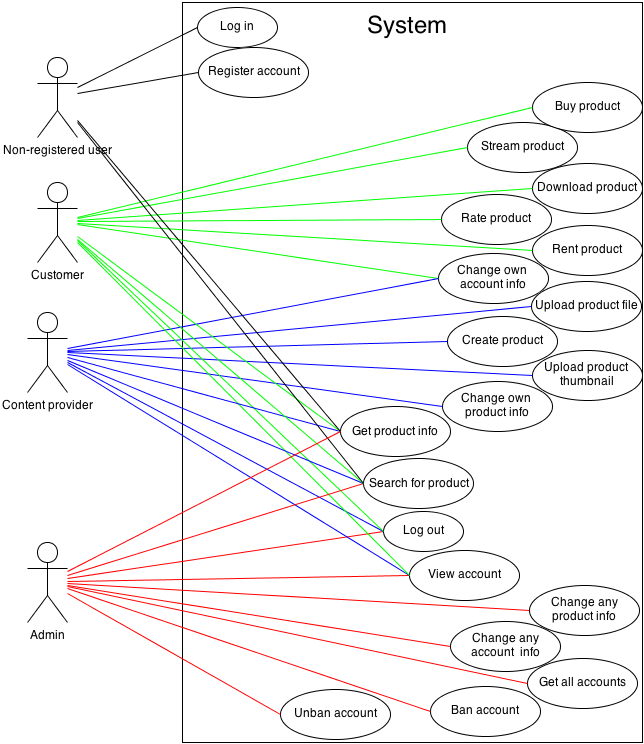
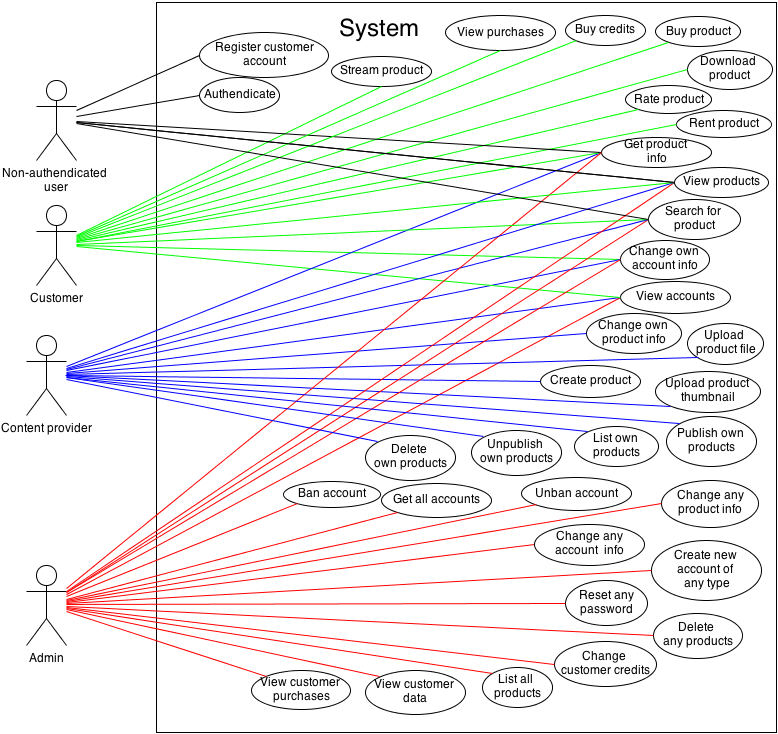
Added more requirements

Changed region(s): [[0.0, 0.0, 1.0, 1.0], [0.1863, 0.9891, 0.2795, 1.0], [0.7453, 0.9891, 0.7764, 1.0]]

diff --git a/texts/Server/Planning/Requirements.tex b/texts/Server/Planning/Requirements.tex
@@ -12,22 +12,51 @@ This section will focus on the requirements for the server. The following list, 
 
 From the use case diagram and the use cases we have produced a list of functional requirements to the web service.
 
-\begin{enumerate}[label=FR-\arabic*]
-	\item Register new account
-	\item Authenticate
-	\item Customers can buy products
-	\item Customers can rent products
-	\item Customers can rate products
-	\item Customers can stream products
-	\item Customers can download products
-	\item Customers and content providers can change their own account information
-	\item Content providers can upload product files
-	\item Content providers can create new products
-	\item Content providers can upload product thumbnails
-	\item Content providers can change informations about their own products
-	\item Admins can change information about any product
-	\item Admins can change information about any account
-	\item Admins can get a list of all accounts
-	\item Admins can ban an account
-	\item Admins can unban an account
-\end{enumerate}
+\newcounter{FR_Counter}
+
+
+\begin{table}
+\centering
+\caption{Functional requirements}
+\begin{tabular}{|c|p{7cm}|c|c|c|c|}
+\hline
+ID & Description & NS & C & CP & A \\ \hline
+\refstepcounter{FR_Counter}FR-\arabic{FR_Counter} & Register new account & X & & & \\ \hline
+\refstepcounter{FR_Counter}FR-\arabic{FR_Counter} & Authenticate & X & & & \\ \hline
+\refstepcounter{FR_Counter}FR-\arabic{FR_Counter} & Get product information & X & X & X & X \\ \hline
+\refstepcounter{FR_Counter}FR-\arabic{FR_Counter} & View products & X & X & X & X \\ \hline
+\refstepcounter{FR_Counter}FR-\arabic{FR_Counter} & Search for products & X & X & X & X \\ \hline
+\refstepcounter{FR_Counter}FR-\arabic{FR_Counter} & Buy products & & X & & \\ \hline
+\refstepcounter{FR_Counter}FR-\arabic{FR_Counter} & Rent products & & X & & \\ \hline
+\refstepcounter{FR_Counter}FR-\arabic{FR_Counter} & Rate products & & X & & \\ \hline
+\refstepcounter{FR_Counter}FR-\arabic{FR_Counter} & Stream products & & X & & \\ \hline
+\refstepcounter{FR_Counter}FR-\arabic{FR_Counter} & Download products & & X & & \\ \hline
+\refstepcounter{FR_Counter}FR-\arabic{FR_Counter} & View purchases history &  & X &  &  \\ \hline
+\refstepcounter{FR_Counter}FR-\arabic{FR_Counter} & Buy credits &  & X &  &  \\ \hline
+\refstepcounter{FR_Counter}FR-\arabic{FR_Counter} & View accounts &  & X & X & X \\ \hline
+\refstepcounter{FR_Counter}FR-\arabic{FR_Counter} & Change own account information & & X & X & X \\ \hline
+\refstepcounter{FR_Counter}FR-\arabic{FR_Counter} & Upload product files & & & X & \\ \hline
+\refstepcounter{FR_Counter}FR-\arabic{FR_Counter} & Create new products &  &  & X &  \\ \hline
+\refstepcounter{FR_Counter}FR-\arabic{FR_Counter} & Upload product thumbnails &  &  & X &  \\ \hline
+\refstepcounter{FR_Counter}FR-\arabic{FR_Counter} & Change informations about own products &  &  & X &  \\ \hline
+\refstepcounter{FR_Counter}FR-\arabic{FR_Counter} & Publish own products &  &  & X &  \\ \hline
+\refstepcounter{FR_Counter}FR-\arabic{FR_Counter} & Unpublish own products &  &  & X &  \\ \hline
+\refstepcounter{FR_Counter}FR-\arabic{FR_Counter} & Delete own products &  &  & X &  \\ \hline
+\refstepcounter{FR_Counter}FR-\arabic{FR_Counter} & List own products &  &  & X &  \\ \hline
+\refstepcounter{FR_Counter}FR-\arabic{FR_Counter} & Change information about any product &  &  &  & X \\ \hline
+\refstepcounter{FR_Counter}FR-\arabic{FR_Counter} & Change information about any account &  &  &  & X \\ \hline
+\refstepcounter{FR_Counter}FR-\arabic{FR_Counter} & Get a list of all accounts &  &  &  & X \\ \hline
+\refstepcounter{FR_Counter}FR-\arabic{FR_Counter} & Ban an account &  &  &  & X \\ \hline
+\refstepcounter{FR_Counter}FR-\arabic{FR_Counter} & Unban an account &  &  &  & X \\ \hline
+\refstepcounter{FR_Counter}FR-\arabic{FR_Counter} & Get a list of all accounts &  &  &  & X \\ \hline
+\refstepcounter{FR_Counter}FR-\arabic{FR_Counter} & Create new account of any type &  &  &  & X \\ \hline
+\refstepcounter{FR_Counter}FR-\arabic{FR_Counter} & Reset any password &  &  &  & X \\ \hline
+\refstepcounter{FR_Counter}FR-\arabic{FR_Counter} & Delete any product &  &  &  & X \\ \hline
+\refstepcounter{FR_Counter}FR-\arabic{FR_Counter} & Change customer credits &  &  &  & X \\ \hline
+\refstepcounter{FR_Counter}FR-\arabic{FR_Counter} & List all products &  &  &  & X \\ \hline
+\refstepcounter{FR_Counter}FR-\arabic{FR_Counter} & View customer data &  &  &  & X \\ \hline
+\refstepcounter{FR_Counter}FR-\arabic{FR_Counter} & View customer purchases &  &  &  & X \\ \hline
+\end{tabular}\\
+\vspace{3mm}
+NA = Non-authendicated, C = Customer, \\CP = Content provider, A = Admin
+\end{table}
